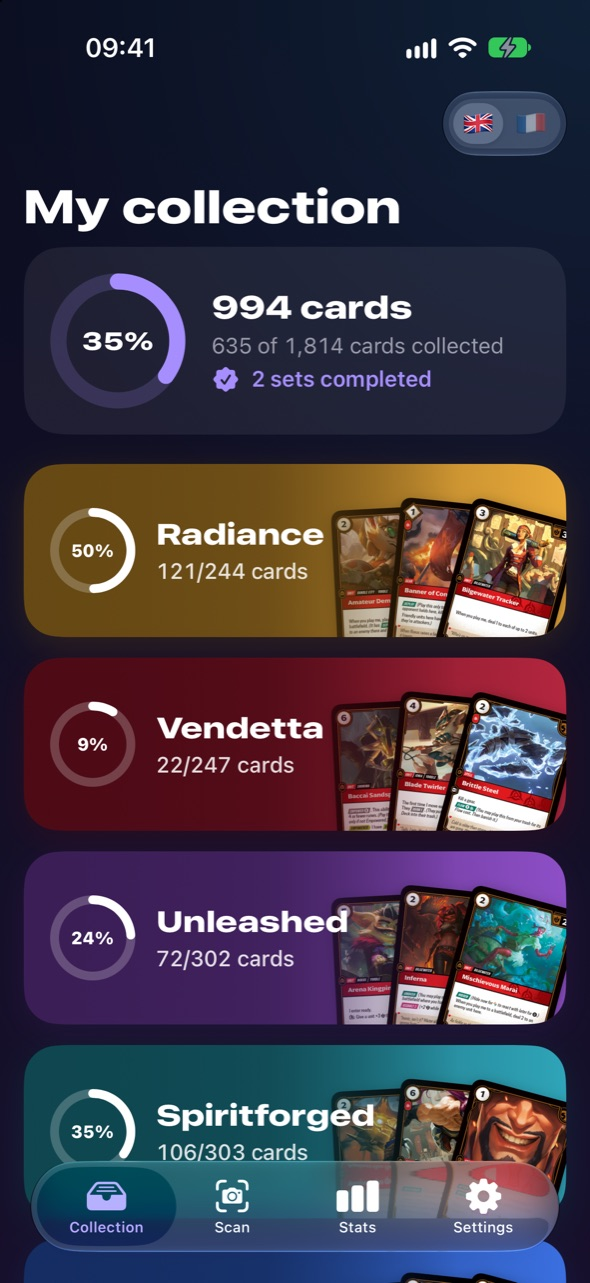
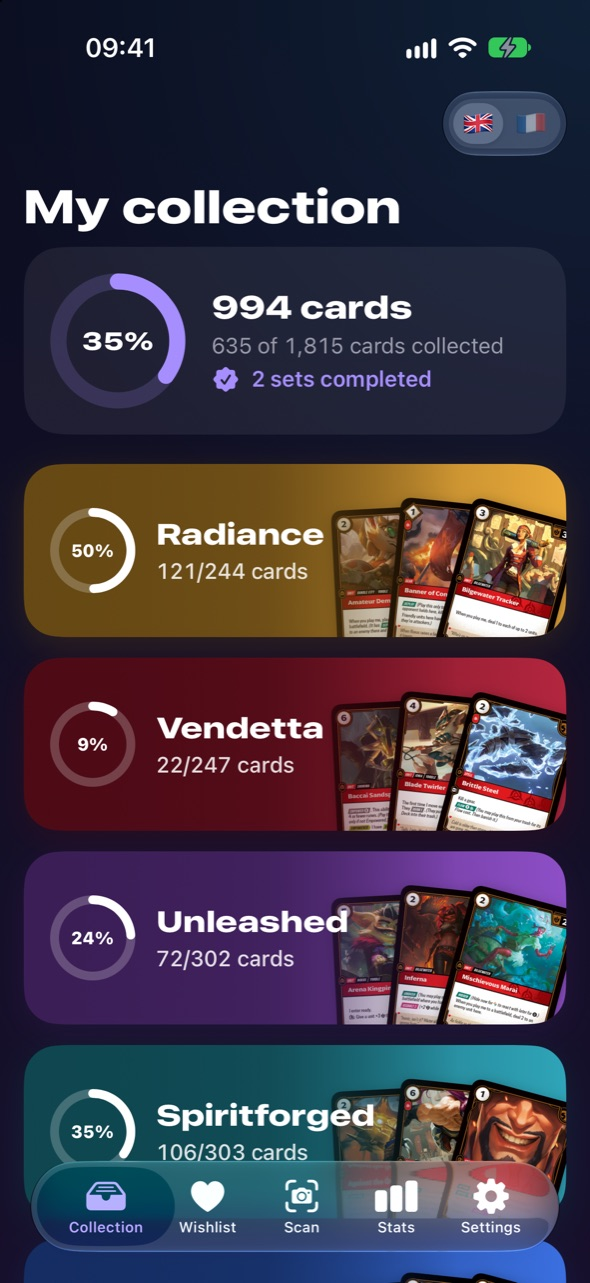
Wishlist, missing cards and refreshed screenshots

diff --git a/fr/index.html b/fr/index.html
@@ -37,7 +37,7 @@
                 <div class="features">
                     <div class="feature">
                         <h3>Progression par extension</h3>
-                        <p>Voyez combien de cartes de chaque extension vous possédez, dans la langue que vous collectionnez. Le mode master set compte à part les versions standard et foil.</p>
+                        <p>Voyez combien de cartes de chaque extension vous possédez, dans la langue que vous collectionnez, lesquelles manquent et ce qu'il en coûterait pour la compléter. Le mode master set compte à part les versions standard et foil.</p>
                     </div>
                     <div class="feature">
                         <h3>Vue classeur</h3>
@@ -45,19 +45,19 @@
                     </div>
                     <div class="feature">
                         <h3>Valeur de la collection</h3>
-                        <p>Prix du marché Cardmarket et TCGplayer, valeur totale de votre collection, vos cartes les plus chères et plus fortes hausses et baisses de la semaine.</p>
+                        <p>Prix du marché Cardmarket et TCGplayer, valeur totale de votre collection et sa courbe jour après jour, vos cartes les plus chères et plus fortes hausses et baisses de la semaine.</p>
                     </div>
                     <div class="feature">
                         <h3>Scanner sur l'appareil</h3>
                         <p>Visez une carte pour la retrouver. La reconnaissance se fait entièrement sur l'iPhone avec Apple Vision. Le mode rafale ajoute toute une pile d'un coup.</p>
                     </div>
                     <div class="feature">
-                        <h3>Partagez votre progression</h3>
-                        <p>Créez une image soignée de la progression d'une extension avec vos plus belles cartes, prête pour les réseaux sociaux.</p>
+                        <h3>Liste de souhaits</h3>
+                        <p>Gardez les cartes que vous cherchez dans un onglet à part, en standard ou en foil, avec leur prix actuel et le total. Ajoutez d'un geste toutes les cartes manquantes d'une extension.</p>
                     </div>
                     <div class="feature">
-                        <h3>Français et anglais</h3>
-                        <p>Interface et langue de collection en français ou en anglais, avec sauvegarde et restauration de la collection (JSON, CSV).</p>
+                        <h3>Partage et sauvegarde</h3>
+                        <p>Partagez une image soignée de votre progression ou la liste des cartes qu'il vous manque, et sauvegardez collection et souhaits (JSON, CSV). En français et en anglais.</p>
                     </div>
                 </div>
             </div>
@@ -77,6 +77,10 @@
                         <figcaption><strong>Une extension en un coup d'œil</strong>Progression, valeur et chaque carte avec ses versions possédées.</figcaption>
                     </figure>
                     <figure>
+                        <img class="phone" src="../images/missing.jpg" alt="Cartes manquantes d'une extension avec leur prix, le coût pour la compléter et les boutons pour les ajouter aux souhaits ou partager la liste" loading="lazy">
+                        <figcaption><strong>Cartes manquantes</strong>Ce qu'il reste à trouver dans une extension, et ce que ça coûterait.</figcaption>
+                    </figure>
+                    <figure>
                         <img class="phone" src="../images/binder.jpg" alt="Vue classeur d'une extension, cartes possédées en couleur et manquantes en gris" loading="lazy">
                         <figcaption><strong>Vue classeur</strong>Cartes possédées en couleur, manquantes en silhouette.</figcaption>
                     </figure>
@@ -85,20 +89,16 @@
                         <figcaption><strong>Fiche d'une carte</strong>L'illustration s'incline avec le téléphone ; les cartes uniquement foil accrochent la lumière.</figcaption>
                     </figure>
                     <figure>
-                        <img class="phone" src="../images/stats.jpg" alt="Statistiques avec la valeur totale, l'évolution de la semaine et un podium des trois cartes les plus chères" loading="lazy">
-                        <figcaption><strong>Statistiques</strong>Valeur totale, évolution de la semaine et vos trois cartes les plus chères.</figcaption>
+                        <img class="phone" src="../images/wishlist.jpg" alt="Liste de souhaits avec le coût total des cartes voulues et chaque carte avec sa version et son prix" loading="lazy">
+                        <figcaption><strong>Liste de souhaits</strong>Les cartes que vous cherchez, leur prix et le total.</figcaption>
                     </figure>
                     <figure>
-                        <img class="phone" src="../images/breakdown.jpg" alt="Valeur par langue et par extension en mode sombre, avec des barres aux couleurs de chaque extension" loading="lazy">
-                        <figcaption><strong>Où est la valeur</strong>Par langue, et par extension ou rareté aux couleurs des extensions.</figcaption>
+                        <img class="phone" src="../images/stats.jpg" alt="Statistiques avec la valeur de la collection sur 30 jours et un podium des trois cartes les plus chères" loading="lazy">
+                        <figcaption><strong>Statistiques</strong>L'évolution de la valeur de votre collection et vos trois cartes les plus chères.</figcaption>
                     </figure>
                     <figure>
                         <img class="phone" src="../images/share.jpg" alt="Image de progression à partager" loading="lazy">
                         <figcaption><strong>Image de progression</strong>Une image à partager de votre progression.</figcaption>
-                    </figure>
-                    <figure>
-                        <img class="phone" src="../images/settings.jpg" alt="Réglages avec l'en-tête de l'app, le nombre de cartes et l'état de la base" loading="lazy">
-                        <figcaption><strong>Réglages</strong>Langues, prix, état du catalogue et sauvegardes.</figcaption>
                     </figure>
                 </div>
             </div>
@@ -113,7 +113,7 @@
                     <li>Le joueur ouvre une extension et ajoute les cartes qu'il possède, depuis la liste, le classeur, la recherche ou le scanner.</li>
                     <li>Pour chaque carte, il choisit la version (standard ou foil), l'état, la langue et la quantité.</li>
                     <li>L'app affiche la progression par extension, la valeur de la collection et les variations de prix de la semaine.</li>
-                    <li>Le joueur peut partager une image de progression ou exporter une sauvegarde de sa collection.</li>
+                    <li>Le joueur peut partager une image de progression, garder une liste de souhaits des cartes qui lui manquent ou exporter une sauvegarde de sa collection.</li>
                 </ol>
             </div>
         </section>

diff --git a/index.html b/index.html
@@ -37,7 +37,7 @@
                 <div class="features">
                     <div class="feature">
                         <h3>Set completion</h3>
-                        <p>See how many cards of each set you own, in the language you collect. An optional master set mode counts standard and foil versions separately.</p>
+                        <p>See how many cards of each set you own, in the language you collect, which ones are missing and what it would cost to finish the set. An optional master set mode counts standard and foil versions separately.</p>
                     </div>
                     <div class="feature">
                         <h3>Binder view</h3>
@@ -45,19 +45,19 @@
                     </div>
                     <div class="feature">
                         <h3>Collection value</h3>
-                        <p>Market prices from Cardmarket and TCGplayer, the total value of your collection, your most valuable cards and this week's biggest gains and losses.</p>
+                        <p>Market prices from Cardmarket and TCGplayer, the total value of your collection and its day-by-day curve, your most valuable cards and this week's biggest gains and losses.</p>
                     </div>
                     <div class="feature">
                         <h3>On-device scanner</h3>
                         <p>Point the camera at a card to find it. Recognition runs entirely on the iPhone with Apple Vision. Batch mode adds a whole stack in one go.</p>
                     </div>
                     <div class="feature">
-                        <h3>Share your progress</h3>
-                        <p>Generate a clean image of a set's completion with your best cards, ready for social media.</p>
+                        <h3>Wishlist</h3>
+                        <p>Keep the cards you are after in their own tab, standard or foil, with their current price and the total. Add all the missing cards of a set in one tap.</p>
                     </div>
                     <div class="feature">
-                        <h3>English and French</h3>
-                        <p>Interface and collection language in English or French, with backup and restore of your collection (JSON, CSV).</p>
+                        <h3>Share and back up</h3>
+                        <p>Share a clean image of a set's completion or a list of the cards you still need, and back up your collection and wishlist (JSON, CSV). In English and French.</p>
                     </div>
                 </div>
             </div>
@@ -77,6 +77,10 @@
                         <figcaption><strong>A set at a glance</strong>Completion, value and every card with its owned versions.</figcaption>
                     </figure>
                     <figure>
+                        <img class="phone" src="images/missing.jpg" alt="Missing cards of a set with their prices, the cost to complete it and buttons to add them to the wishlist or share the list" loading="lazy">
+                        <figcaption><strong>Missing cards</strong>What is left to find in a set, and what it would cost.</figcaption>
+                    </figure>
+                    <figure>
                         <img class="phone" src="images/binder.jpg" alt="Binder view of a set, owned cards in color and missing cards greyed out" loading="lazy">
                         <figcaption><strong>Binder view</strong>Owned cards in color, missing cards as silhouettes.</figcaption>
                     </figure>
@@ -85,20 +89,16 @@
                         <figcaption><strong>Card page</strong>The art tilts with your phone; foil-only cards catch the light.</figcaption>
                     </figure>
                     <figure>
-                        <img class="phone" src="images/stats.jpg" alt="Statistics with the total value, this week's change and a podium of the three most valuable cards" loading="lazy">
-                        <figcaption><strong>Statistics</strong>Total value, this week's change and your three most valuable cards.</figcaption>
+                        <img class="phone" src="images/wishlist.jpg" alt="Wishlist with the total cost of the wanted cards and each card with its version and price" loading="lazy">
+                        <figcaption><strong>Wishlist</strong>The cards you are after, their price and the total.</figcaption>
                     </figure>
                     <figure>
-                        <img class="phone" src="images/breakdown.jpg" alt="Value by language and by set in dark mode, with bars in each set's color" loading="lazy">
-                        <figcaption><strong>Where the value is</strong>By language, and by set or rarity in each set's color.</figcaption>
+                        <img class="phone" src="images/stats.jpg" alt="Statistics with the collection value over the last 30 days and a podium of the three most valuable cards" loading="lazy">
+                        <figcaption><strong>Statistics</strong>Your collection's value over time and your three most valuable cards.</figcaption>
                     </figure>
                     <figure>
                         <img class="phone" src="images/share.jpg" alt="Shareable progress image for a set" loading="lazy">
                         <figcaption><strong>Progress image</strong>A shareable picture of your set completion.</figcaption>
-                    </figure>
-                    <figure>
-                        <img class="phone" src="images/settings.jpg" alt="Settings with the app header, card counts and database status" loading="lazy">
-                        <figcaption><strong>Settings</strong>Languages, prices, catalog status and backups.</figcaption>
                     </figure>
                 </div>
             </div>
@@ -113,7 +113,7 @@
                     <li>The player opens a set and adds the cards they own, from the list, the binder, the search or the camera scanner.</li>
                     <li>For each card they choose the version (standard or foil), condition, language and quantity.</li>
                     <li>The app shows completion per set, the value of the collection and the week's price changes.</li>
-                    <li>The player can share a progress image or export a backup of their collection.</li>
+                    <li>The player can share a progress image, keep a wishlist of the cards they are missing or export a backup of their collection.</li>
                 </ol>
             </div>
         </section>

diff --git a/privacy.html b/privacy.html
@@ -17,7 +17,7 @@
 
     <main class="doc">
         <h1>Privacy policy</h1>
-        <p class="updated">Last updated: November 2, 2026</p>
+        <p class="updated">Last updated: November 3, 2026</p>
 
         <p>RiftTracker is an iPhone app to track a Riftbound card collection. It is designed to work without an account and without collecting personal data.</p>
 
@@ -26,8 +26,8 @@
 
         <h2>Data stored on your device</h2>
         <ul>
-            <li>Your collection (cards, quantities, condition, language, version, notes) is stored only on your iPhone.</li>
-            <li>The card catalog, prices, price changes and card images are cached on your iPhone to work offline.</li>
+            <li>Your collection (cards, quantities, condition, language, version, notes) and your wishlist are stored only on your iPhone.</li>
+            <li>The card catalog, prices, price changes, the day-by-day value of your collection and card images are kept on your iPhone to work offline.</li>
             <li>Backup files are created only when you export them, and saved where you choose.</li>
         </ul>
 
@@ -56,7 +56,7 @@
 
         <div lang="fr">
             <h1>Politique de confidentialité</h1>
-            <p class="updated">Dernière mise à jour : 2 novembre 2026</p>
+            <p class="updated">Dernière mise à jour : 3 novembre 2026</p>
 
             <p>RiftTracker est une app iPhone pour suivre une collection de cartes Riftbound. Elle fonctionne sans compte et sans collecte de données personnelles.</p>
 
@@ -65,8 +65,8 @@
 
             <h2>Données enregistrées sur votre appareil</h2>
             <ul>
-                <li>Votre collection (cartes, quantités, état, langue, version, notes) est enregistrée uniquement sur votre iPhone.</li>
-                <li>Le catalogue, les prix, les variations de prix et les images des cartes sont gardés sur l'iPhone pour fonctionner hors ligne.</li>
+                <li>Votre collection (cartes, quantités, état, langue, version, notes) et votre liste de souhaits sont enregistrées uniquement sur votre iPhone.</li>
+                <li>Le catalogue, les prix, les variations de prix, la valeur de votre collection jour après jour et les images des cartes sont gardés sur l'iPhone pour fonctionner hors ligne.</li>
                 <li>Les fichiers de sauvegarde ne sont créés que lorsque vous les exportez, à l'endroit que vous choisissez.</li>
             </ul>
 
